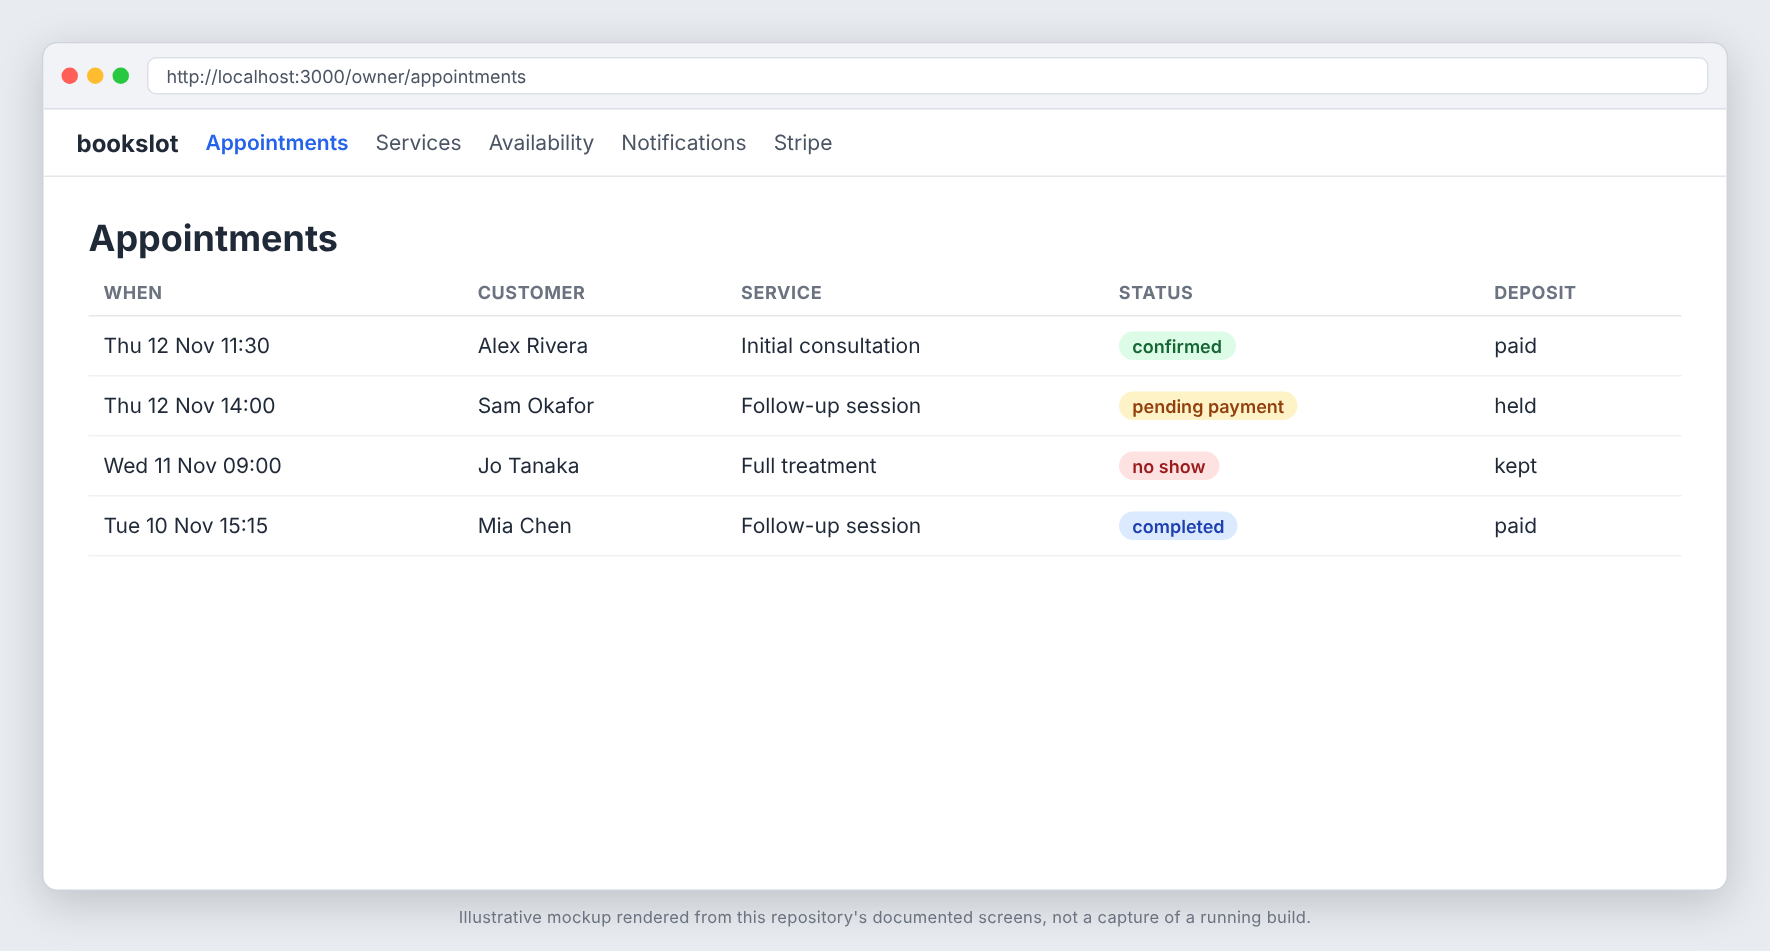
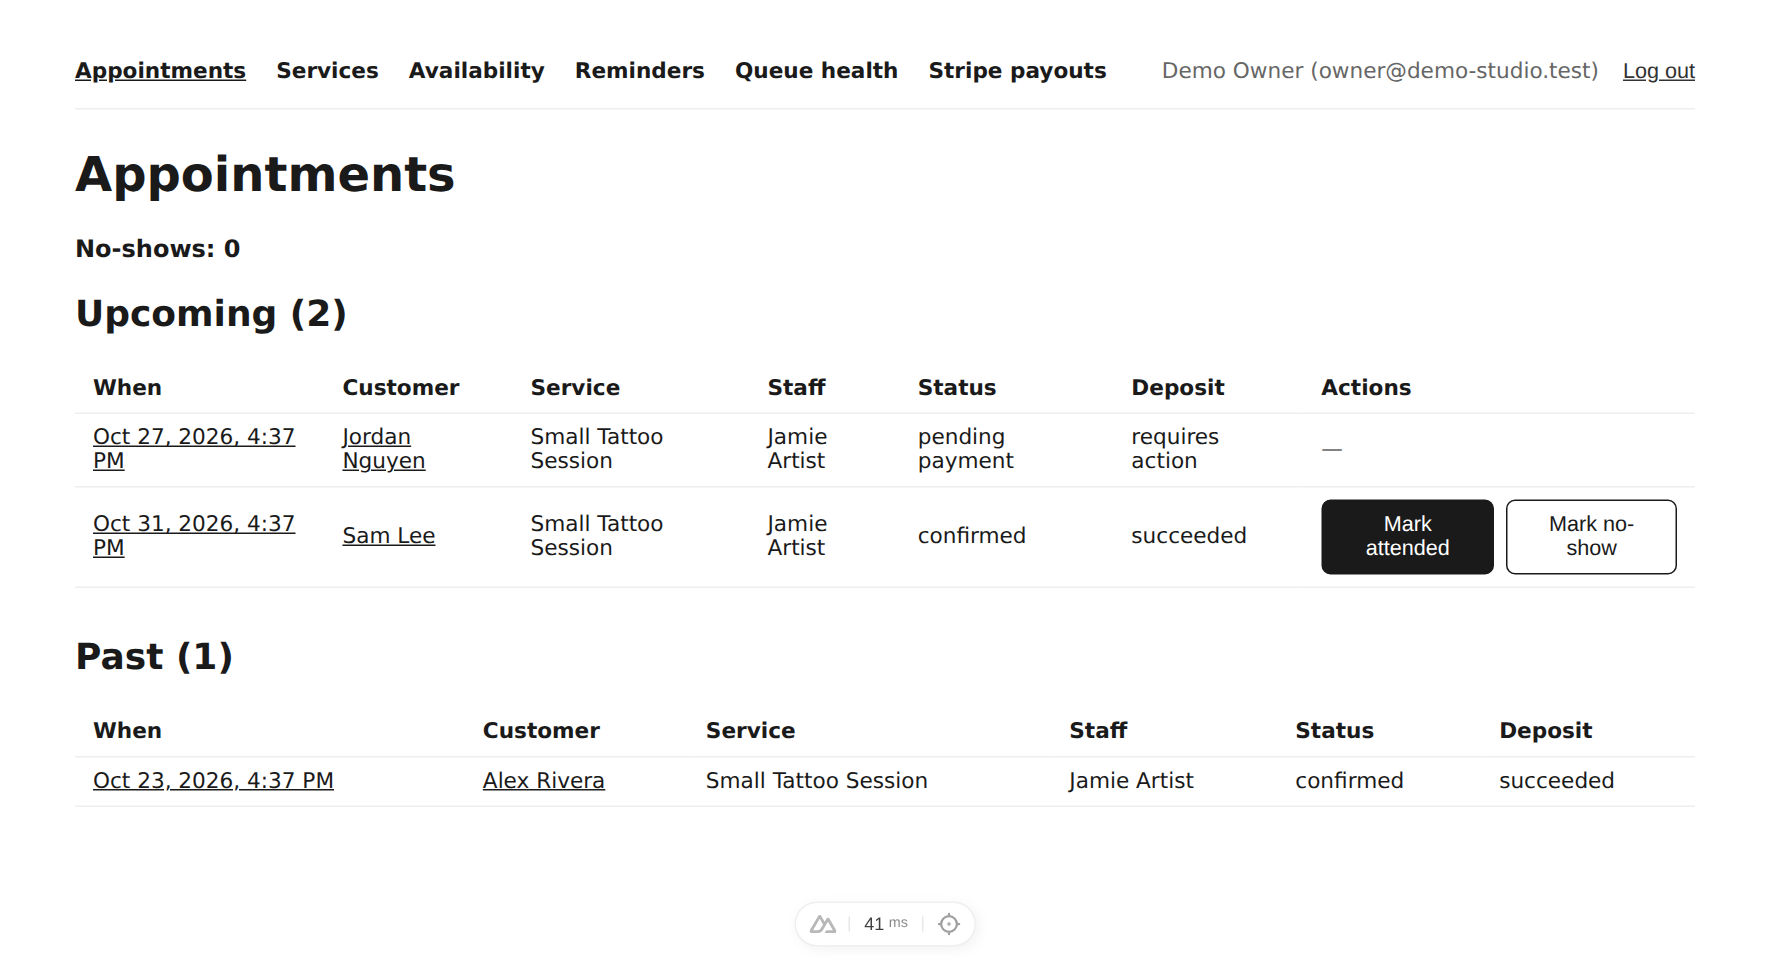
Replace the README mockups with real browser screenshots (#108)
* Update screenshots from CI

* Use the real screenshots captured by CI in the README

The manual Screenshots workflow ran and committed real captures; the README now shows them and says so, instead of the illustrative mockups.

Claude-Session: https://claude.ai/code/session_01MMnAbBEvfYn2oeVzGWoYsN

---------

diff --git a/README.md b/README.md
@@ -18,7 +18,11 @@ the next session should build.
 
 ![Owner appointments list](docs/screenshots/owner-appointments.png)
 
-_These images are illustrative mockups rendered from this repository's documented screens and API shapes, not captures of a running build. Regenerate or replace them with real captures once the app is running._
+![Owner services](docs/screenshots/owner-services.png)
+
+![Owner availability](docs/screenshots/owner-availability.png)
+
+_Real captures: a Playwright spec drives the running app against the real API with seeded demo data, run by the manual `Screenshots` workflow (`.github/workflows/screenshots.yml`). They are taken against the dev server, so the Nuxt DevTools badge shows at the bottom._
 
 ## Start here
 
